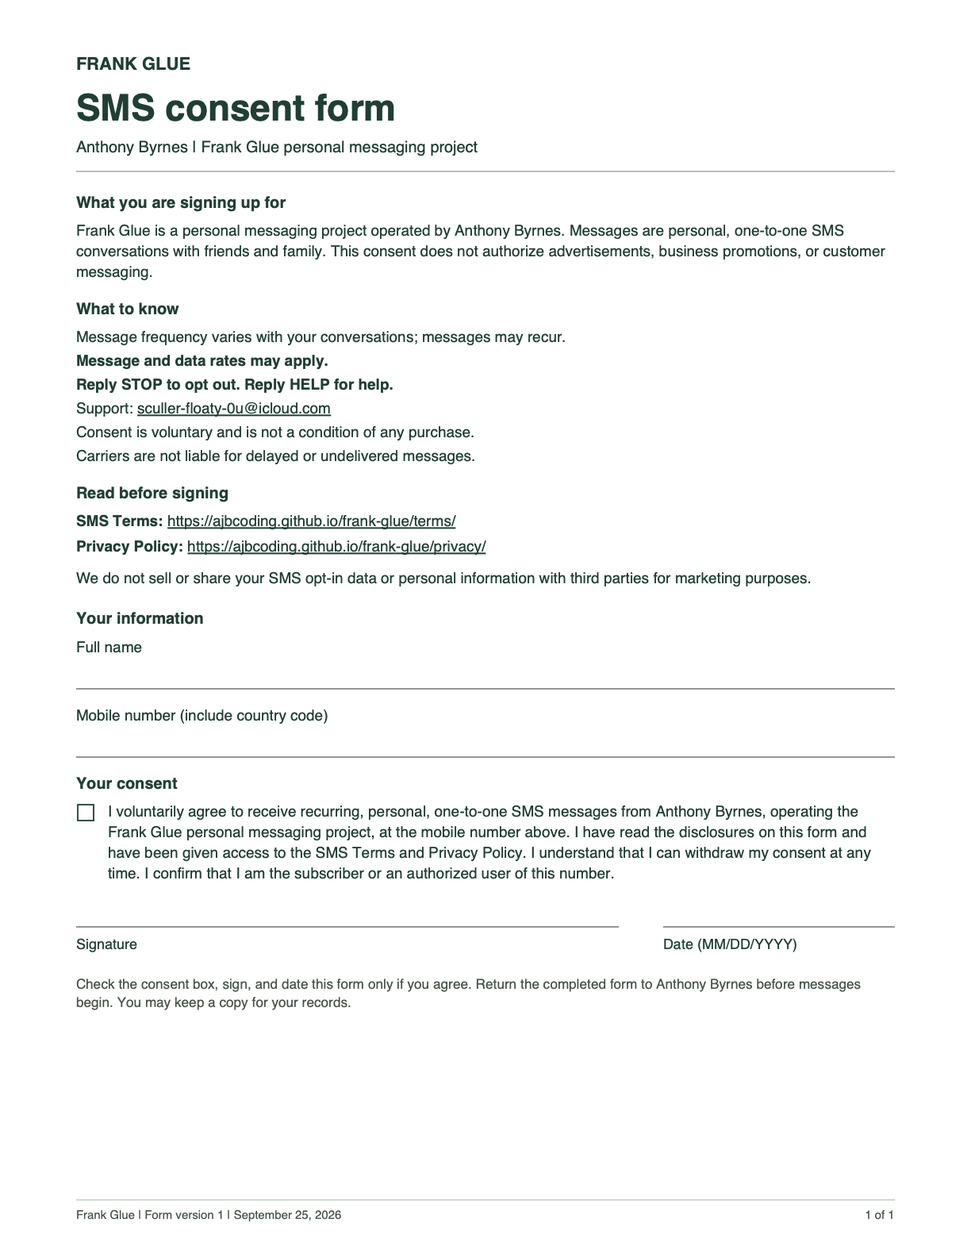
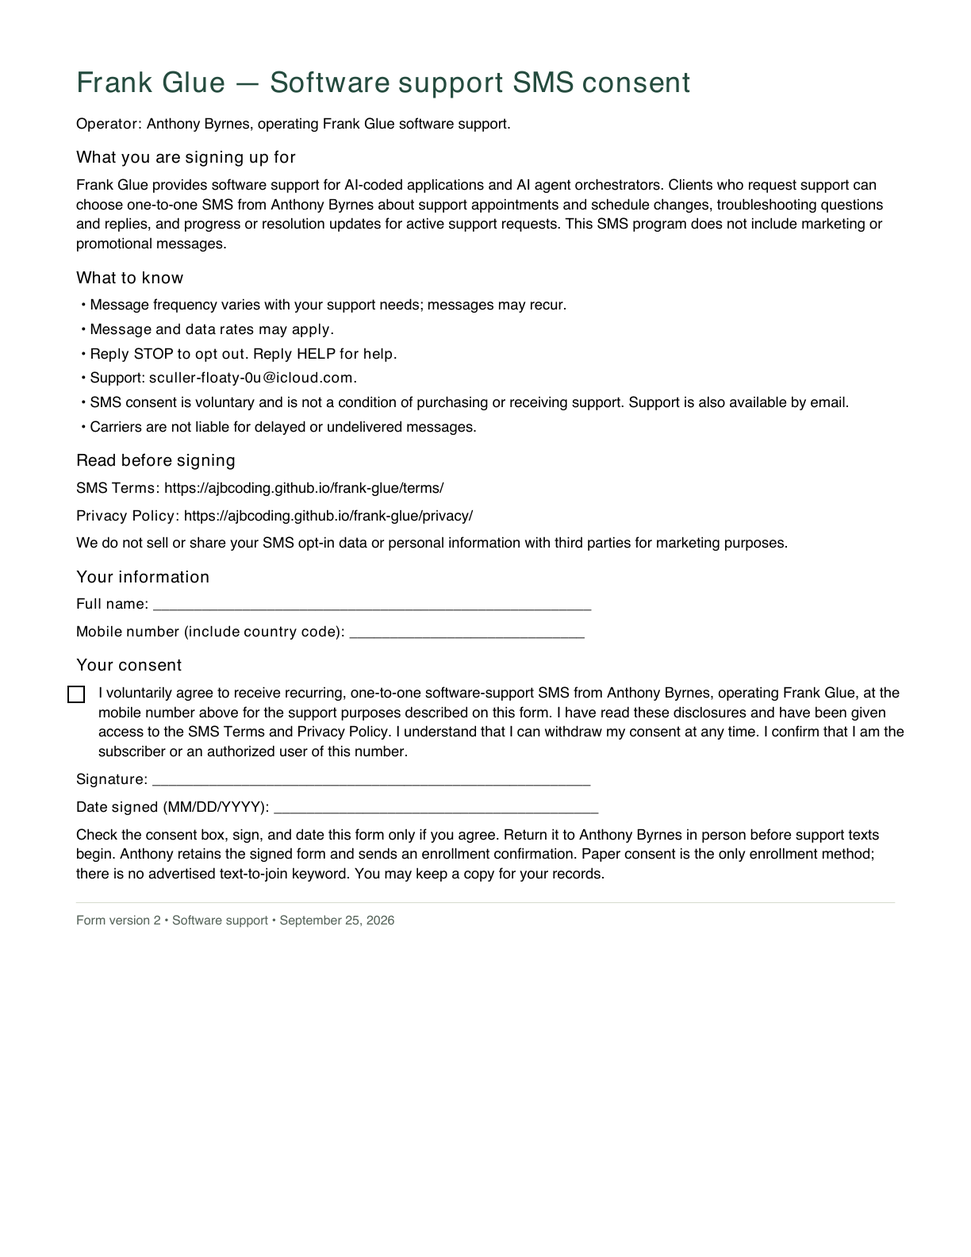
Describe Frank Glue software support services and SMS consent

diff --git a/privacy/index.html b/privacy/index.html
@@ -18,18 +18,18 @@
   <main id="main" class="wrap policy-layout">
     <aside class="policy-nav" aria-label="On this page"><p class="eyebrow">On this page</p><a href="#about">About this policy</a><a href="#information">Information we handle</a><a href="#use">How we use it</a><a href="#sharing">Providers and sharing</a><a href="#retention">Retention and security</a><a href="#choices">Your choices</a><a href="#contact">Contact</a></aside>
     <article class="policy">
-      <header class="policy-heading"><p class="eyebrow">Frank Glue · Your information</p><h1>Privacy Policy</h1><p class="effective">Effective September 25, 2026</p><p class="lede">Personal conversations deserve clear expectations about personal information.</p></header>
-      <section id="about"><h2>1. About this policy</h2><p>Anthony Byrnes operates Frank Glue, a personal messaging project for voluntary, one-to-one SMS conversations with friends and family. This policy covers the Frank Glue messaging program and this website. For privacy questions, contact <a href="mailto:sculler-floaty-0u@icloud.com">sculler-floaty-0u@icloud.com</a>.</p></section>
-      <section id="information"><h2>2. Information we handle</h2><p>We process the mobile number you provide, messages and any attachments you send, and information you choose to include, such as your name. Messaging providers also process conversation identifiers, message times, and delivery information.</p><p>Our paper consent process records your name, mobile number, signature, and signing date. We retain the signed form as proof of your permission to receive texts and keep records of your messaging preferences, including opt-out requests. If you contact us by email, we receive your email address and the information in that correspondence.</p><p>This website has no online signup form, advertising trackers, or analytics scripts added by Frank Glue. Our hosting provider, GitHub Pages, may process technical information such as your IP address to serve and secure the site. See the <a href="https://docs.github.com/en/site-policy/privacy-policies/github-general-privacy-statement">GitHub Privacy Statement</a> for its practices.</p></section>
-      <section id="use"><h2>3. How we use information</h2><p>We use information to deliver and respond to personal messages you have agreed to receive, provide assistance, resolve delivery problems, protect the service, and respect your messaging choices. Consent and opt-out records help us document permission and prevent unwanted messages.</p><p>Frank Glue does not use this program to send advertisements or bulk marketing messages.</p></section>
+      <header class="policy-heading"><p class="eyebrow">Frank Glue · Your information</p><h1>Privacy Policy</h1><p class="effective">Effective September 25, 2026 · Software support program</p><p class="lede">Clear expectations for your support information and messaging choices.</p></header>
+      <section id="about"><h2>1. About this policy</h2><p>Anthony Byrnes operates Frank Glue, a software support service for AI-coded applications and AI agent orchestrators. This policy covers this website, support correspondence, and optional one-to-one SMS about support appointments, troubleshooting, and progress or resolution updates for active support requests. For privacy questions, contact <a href="mailto:sculler-floaty-0u@icloud.com">sculler-floaty-0u@icloud.com</a>.</p></section>
+      <section id="information"><h2>2. Information we handle</h2><p>We process the contact details you provide, such as your name, email address, and mobile number; your support request and appointment details; and messages, attachments, or troubleshooting information you choose to share. Messaging providers also process conversation identifiers, message times, and delivery information.</p><p>Our paper SMS consent process records your name, mobile number, signature, and signing date. We retain the signed form as proof of your permission to receive support texts and keep records of your messaging preferences, including opt-out requests. If you contact us by email, we receive your email address and the information in that correspondence.</p><p>This website has no online signup form, advertising trackers, or analytics scripts added by Frank Glue. Our hosting provider, GitHub Pages, may process technical information such as your IP address to serve and secure the site. See the <a href="https://docs.github.com/en/site-policy/privacy-policies/github-general-privacy-statement">GitHub Privacy Statement</a> for its practices.</p></section>
+      <section id="use"><h2>3. How we use information</h2><p>We use information to assess and respond to your support request, schedule support sessions, investigate application or orchestration issues, and communicate progress and resolutions. With your SMS consent, we send support texts for those purposes. We also use information to resolve delivery problems, protect the service, and respect your messaging choices. Consent and opt-out records help us document permission and prevent unwanted messages.</p><p>Frank Glue does not use this SMS program to send marketing or promotional messages.</p></section>
       <section id="sharing"><h2>4. Service providers and sharing</h2><div class="callout"><h3>Your mobile information stays out of marketing lists.</h3><p>We never sell or rent your mobile information or SMS consent. We do not disclose phone numbers, mobile information, or opt-in and consent records to third parties, affiliates, or lead generators for their marketing or promotional activities.</p></div><p>Twilio and telecommunications carriers process phone numbers, message content, and delivery information to provide messaging. Our email and website providers process information needed to deliver correspondence and this website. These providers receive information as needed to operate those services; this does not authorize them to use your SMS consent for their own marketing.</p><p>We may disclose information if required by law, limited to that required purpose. Receiving Frank Glue messages does not give any other sender permission to contact you. Read more about <a href="https://www.twilio.com/en-us/legal/privacy">Twilio’s privacy practices</a>.</p></section>
-      <section id="retention"><h2>5. Retention and security</h2><p>We retain information while needed for your conversations, service operation, and applicable recordkeeping obligations. Consent and opt-out records may be retained to document your choices and honor requests not to receive messages. Provider systems and backups may retain information according to their own processes. Opting out does not automatically delete earlier messages.</p><p>We use account authentication and restrict access to our messaging accounts. SMS is not end-to-end encrypted; messaging providers and carriers process its content. Please avoid sending passwords or other sensitive information by text.</p></section>
-      <section id="choices"><h2>6. Your choices</h2><p>Participation is voluntary. You give explicit permission by completing, signing, and dating a paper form provided and collected in person by Anthony Byrnes before personal, one-to-one texts begin. You receive an enrollment confirmation after consenting and before personal conversations. Paper consent is the only enrollment method; there is no advertised text-to-join keyword. Message frequency varies with your conversations. Message and data rates may apply.</p><p><strong>Reply STOP to stop messages. Reply HELP for assistance.</strong> You may also contact <a href="mailto:sculler-floaty-0u@icloud.com">sculler-floaty-0u@icloud.com</a>.</p><p>You can ask us to access, correct, or delete information we hold about you by emailing that address. We may need to verify your request. Some records may need to be retained to meet applicable obligations or honor an opt-out; we will explain relevant limitations when responding.</p></section>
+      <section id="retention"><h2>5. Retention and security</h2><p>We retain information while needed for your support requests, service operation, and applicable recordkeeping obligations. Consent and opt-out records may be retained to document your choices and honor requests not to receive messages. Provider systems and backups may retain information according to their own processes. Opting out does not automatically delete earlier messages.</p><p>We use account authentication and restrict access to our messaging accounts. SMS is not end-to-end encrypted; messaging providers and carriers process its content. Please avoid sending passwords, API keys, or sensitive client data by text.</p></section>
+      <section id="choices"><h2>6. Your choices</h2><p>SMS participation is voluntary and is not a condition of purchasing or receiving support. You give explicit permission by checking the initially unchecked SMS consent box and completing, signing, and dating a paper form provided and collected in person by Anthony Byrnes. You receive an enrollment confirmation after consenting and before support texts begin. Paper consent is the only enrollment method; there is no advertised text-to-join keyword. Message frequency varies with your support needs; messages may recur. Message and data rates may apply.</p><p>You can request support by email without enrolling in SMS. Visiting the website or emailing a support request does not subscribe you to texts.</p><p><strong>Reply STOP to stop messages. Reply HELP for assistance.</strong> You may also contact <a href="mailto:sculler-floaty-0u@icloud.com">sculler-floaty-0u@icloud.com</a>.</p><p>You can ask us to access, correct, or delete information we hold about you by emailing that address. We may need to verify your request. Some records may need to be retained to meet applicable obligations or honor an opt-out; we will explain relevant limitations when responding.</p></section>
       <section id="contact"><h2>7. Updates and contact</h2><p>Updates to this policy will appear on this page with a revised effective date. For privacy questions, email <a href="mailto:sculler-floaty-0u@icloud.com">sculler-floaty-0u@icloud.com</a>. Read our <a href="../terms/">SMS Terms and Conditions</a> for messaging details.</p></section>
     </article>
   </main>
   <footer class="site-footer wrap">
-    <div><a class="footer-brand" href="../">Frank Glue</a><p>Personal messages. With permission.</p><a href="mailto:sculler-floaty-0u@icloud.com">sculler-floaty-0u@icloud.com</a></div>
+    <div><a class="footer-brand" href="../">Frank Glue</a><p>Software support by Anthony Byrnes.</p><a href="mailto:sculler-floaty-0u@icloud.com">sculler-floaty-0u@icloud.com</a></div>
     <nav aria-label="Footer navigation"><a href="../privacy/">Privacy Policy</a><a href="../terms/">SMS Terms</a></nav>
     <p class="copyright">© 2026 Frank Glue</p>
   </footer>

diff --git a/index.html b/index.html
@@ -3,9 +3,9 @@
 <head>
   <meta charset="utf-8">
   <meta name="viewport" content="width=device-width, initial-scale=1">
-  <meta name="description" content="Personal one-to-one SMS conversations, with your permission. Read how Frank Glue handles your information and messaging choices.">
+  <meta name="description" content="Frank Glue provides software support for AI-coded applications and AI agent orchestrators. Work with Anthony Byrnes on troubleshooting, integrations, and support follow-up.">
   <meta name="theme-color" content="#244b3e">
-  <title>Frank Glue — Personal SMS conversations</title>
+  <title>Frank Glue — Support for AI-coded applications</title>
   <link rel="stylesheet" href="./styles.css">
 </head>
 <body>
@@ -18,41 +18,43 @@
   <main id="main">
     <section class="hero wrap" aria-labelledby="intro">
       <div class="hero-copy">
-        <p class="eyebrow"><span class="status-dot" aria-hidden="true"></span> Personal SMS conversations</p>
-        <h1 id="intro">One to one.<br><em>With your say.</em></h1>
-        <p class="lede">Frank Glue is Anthony Byrnes’s personal messaging project for staying in touch with friends and family through individual text conversations. It starts with your permission.</p>
-        <a class="button" href="#how-it-works">How it works <span aria-hidden="true">↗</span></a>
+        <p class="eyebrow"><span class="status-dot" aria-hidden="true"></span> AI application support</p>
+        <h1 id="intro">Support for<br><em>what you’re building.</em></h1>
+        <p class="lede">Frank Glue is Anthony Byrnes’s software support service for AI-coded applications and AI agent orchestrators. Get help troubleshooting your app, connecting tools, and working through the next fix.</p>
+        <a class="button" href="mailto:sculler-floaty-0u@icloud.com">Request software support <span aria-hidden="true">↗</span></a>
+        <p><a class="text-link" href="#how-it-works">How optional support texts work</a></p>
       </div>
       <aside class="agreement" aria-labelledby="agreement-title">
-        <span class="card-label">Our starting point</span>
-        <h2 id="agreement-title">A clear agreement.</h2>
+        <span class="card-label">Work directly with Anthony</span>
+        <h2 id="agreement-title">Help with the next step.</h2>
         <ol class="agreement-list">
-          <li><span class="step">01</span><div><h3>Permission first</h3><p>You give permission on a signed, dated paper form before any texts begin.</p></div></li>
-          <li><span class="step">02</span><div><h3>A personal conversation</h3><p>Individual messages. No advertising, promotional campaigns, or bulk marketing.</p></div></li>
-          <li><span class="step">03</span><div><h3>Your choice, always</h3><p>You can stop messages at any time by replying <strong>STOP</strong>.</p></div></li>
+          <li><span class="step">01</span><div><h3>Application troubleshooting</h3><p>Investigate errors and unexpected behavior in applications built with AI coding tools.</p></div></li>
+          <li><span class="step">02</span><div><h3>Orchestrators and integrations</h3><p>Work through agent workflows, tool connections, and handoffs between application components.</p></div></li>
+          <li><span class="step">03</span><div><h3>Support follow-up</h3><p>Coordinate support sessions, discuss troubleshooting steps, and track updates on your request.</p></div></li>
         </ol>
-        <p class="card-foot">Simple conversations. Clear expectations.</p>
+        <p class="card-foot">Email your project outline and the issue you want help with. We’ll agree on the support scope and next steps.</p>
       </aside>
     </section>
     <section id="how-it-works" class="details-band">
       <div class="wrap details-grid">
-        <div><p class="eyebrow">Before the first text</p><h2>Know what you’re<br>agreeing to.</h2></div>
+        <div><p class="eyebrow">Optional SMS support</p><h2>Updates about<br>your request.</h2></div>
         <div class="details-copy">
-          <p>Anthony Byrnes provides and collects the paper consent form in person. Before you agree, the form explains Frank Glue’s personal messaging program, message frequency and rates, STOP and HELP instructions, and our <a href="privacy/">Privacy Policy</a> and <a href="terms/">SMS Terms</a>. If you choose to join, enter your mobile number, check the consent box, sign, and date the form.</p>
-          <p>Anthony retains the signed form as proof of your permission. You then receive an enrollment confirmation before personal conversations begin. Paper consent is the only way to join; there is no advertised text-to-join keyword.</p>
+          <p>Clients who request help with AI-coded applications or AI agent orchestrators can choose one-to-one support texts from Anthony Byrnes through Frank Glue. Messages cover support appointments and schedule changes, troubleshooting questions, and progress or resolution updates about an active support request. This SMS program does not include marketing or promotional messages.</p>
+          <p>Anthony provides and collects the paper SMS consent form in person. It explains the support messaging program, frequency and rates, STOP and HELP instructions, and our <a href="privacy/">Privacy Policy</a> and <a href="terms/">SMS Terms</a>. To enroll, enter your mobile number, check the initially unchecked consent box, sign and date the form, and return it to Anthony.</p>
+          <p>Anthony retains the signed form as proof of permission and sends an enrollment confirmation before support texts begin. Paper consent is the only enrollment method; there is no advertised text-to-join keyword.</p>
           <p><a href="consent/frank-glue-sms-consent.pdf">Download the blank consent form (PDF)</a> or <a href="consent/frank-glue-sms-consent.png">view the blank form (image)</a>.</p>
-          <p>Message frequency varies with the conversation. Message and data rates may apply. Consent is voluntary, and visiting this website does not sign you up.</p>
+          <p>Message frequency varies with your support needs; messages may recur. Message and data rates may apply. SMS consent is voluntary and is not a condition of purchasing or receiving support. You can arrange support by email. Visiting this website or emailing a request does not enroll you in SMS.</p>
           <p><strong>Reply STOP to unsubscribe. Reply HELP for assistance.</strong> You can also reach us at <a href="mailto:sculler-floaty-0u@icloud.com">sculler-floaty-0u@icloud.com</a>.</p>
         </div>
       </div>
     </section>
     <section class="wrap privacy-note" aria-labelledby="privacy-promise">
       <div class="privacy-icon" aria-hidden="true">FG</div>
-      <div><p class="eyebrow">Your information</p><h2 id="privacy-promise">A conversation isn’t a marketing list.</h2><p>We never sell or rent your mobile information or SMS consent. We do not disclose it to third parties or affiliates for their marketing or promotions.</p><a class="text-link" href="privacy/">Read the privacy policy <span aria-hidden="true">↗</span></a></div>
+      <div><p class="eyebrow">Your information</p><h2 id="privacy-promise">Support with clear boundaries.</h2><p>We never sell or rent your mobile information or SMS consent. We do not disclose it to third parties or affiliates for their marketing or promotions. Please keep passwords, API keys, and sensitive client data out of support texts.</p><a class="text-link" href="privacy/">Read the privacy policy <span aria-hidden="true">↗</span></a></div>
     </section>
   </main>
   <footer class="site-footer wrap">
-    <div><a class="footer-brand" href="./">Frank Glue</a><p>Personal messages. With permission.</p><a href="mailto:sculler-floaty-0u@icloud.com">sculler-floaty-0u@icloud.com</a></div>
+    <div><a class="footer-brand" href="./">Frank Glue</a><p>Software support by Anthony Byrnes.</p><a href="mailto:sculler-floaty-0u@icloud.com">sculler-floaty-0u@icloud.com</a></div>
     <nav aria-label="Footer navigation"><a href="./privacy/">Privacy Policy</a><a href="./terms/">SMS Terms</a></nav>
     <p class="copyright">© 2026 Frank Glue</p>
   </footer>

diff --git a/terms/index.html b/terms/index.html
@@ -3,7 +3,7 @@
 <head>
   <meta charset="utf-8">
   <meta name="viewport" content="width=device-width, initial-scale=1">
-  <meta name="description" content="Frank Glue SMS program terms, written consent, message frequency, rates, opt-out instructions, and support.">
+  <meta name="description" content="Terms for optional Frank Glue software-support SMS: paper consent, message frequency, rates, opt-out instructions, and help.">
   <meta name="theme-color" content="#244b3e">
   <title>SMS Terms and Conditions — Frank Glue</title>
   <link rel="stylesheet" href="../styles.css">
@@ -18,17 +18,17 @@
   <main id="main" class="wrap policy-layout">
     <aside class="policy-nav" aria-label="On this page"><p class="eyebrow">On this page</p><a href="#program">The program</a><a href="#consent">Your agreement</a><a href="#frequency">Frequency and charges</a><a href="#stop">Stopping messages</a><a href="#help">Getting help</a><a href="#delivery">Delivery and privacy</a></aside>
     <article class="policy">
-      <header class="policy-heading"><p class="eyebrow">Frank Glue · Messaging details</p><h1>SMS Terms<br>and Conditions</h1><p class="effective">Effective September 25, 2026</p><p class="lede">What to expect before, during, and after a conversation.</p></header>
-      <section id="program"><h2>1. The program</h2><p>Anthony Byrnes operates Frank Glue, a personal messaging project for individual, one-to-one SMS conversations with friends and family who have agreed to receive them. Messages relate to your personal conversation. This program does not send advertisements, promotional campaigns, or bulk marketing.</p></section>
-      <section id="consent"><h2>2. Your agreement</h2><p>Before sending texts, Anthony Byrnes provides and collects a paper consent form in person. You enter your mobile number, check the consent box, and sign and date the form if you agree to receive messages. Before you agree, we provide the Frank Glue program name, the purpose of the conversation, message frequency and rate disclosures, STOP and HELP instructions, and links to these terms and our <a href="../privacy/">Privacy Policy</a>.</p><p>You confirm that you want personal, one-to-one SMS conversations from Frank Glue at the number you provide. Your agreement covers that purpose only. Participation is voluntary and is not a condition of any purchase. Reading this website does not subscribe you. Anthony retains your signed, dated form as proof of permission. You receive an enrollment confirmation before personal messages begin. Paper forms are the only way to join; there is no advertised text-to-join keyword. You can <a href="../consent/frank-glue-sms-consent.pdf">read the blank paper form (PDF)</a> before deciding.</p></section>
-      <section id="frequency"><h2>3. Message frequency and charges</h2><p>Message frequency varies with your conversations; there is no fixed messaging schedule. Message and data rates may apply under your mobile carrier plan. Contact your carrier for information about your plan.</p></section>
+      <header class="policy-heading"><p class="eyebrow">Frank Glue · Messaging details</p><h1>SMS Terms<br>and Conditions</h1><p class="effective">Effective September 25, 2026 · Software support program</p><p class="lede">Optional texts to keep your software support request moving.</p></header>
+      <section id="program"><h2>1. The program</h2><p>Anthony Byrnes operates Frank Glue, a software support service for AI-coded applications and AI agent orchestrators. Clients who request support and opt in can receive one-to-one SMS about support appointments and schedule changes, troubleshooting questions and replies, and progress or resolution updates for active support requests. This SMS program does not send marketing or promotional messages.</p></section>
+      <section id="consent"><h2>2. Your agreement</h2><p>Before sending texts, Anthony Byrnes provides and collects a paper SMS consent form in person. You enter your mobile number, check the initially unchecked consent box, and sign and date the form if you agree to receive support messages. Before you agree, the form provides the Frank Glue program name, the support messaging purpose, frequency and rate disclosures, STOP and HELP instructions, and links to these terms and our <a href="../privacy/">Privacy Policy</a>.</p><p>You confirm that you want recurring, one-to-one software-support SMS from Frank Glue at the number you provide. Your agreement covers that purpose only. SMS participation is voluntary and is not a condition of purchasing or receiving support. You can arrange support by email without enrolling in texts. Reading this website or emailing a request does not subscribe you. Anthony retains your signed, dated form as proof of permission and sends an enrollment confirmation before support texts begin. Paper forms are the only enrollment method; there is no advertised text-to-join keyword. You can <a href="../consent/frank-glue-sms-consent.pdf">read the blank paper form (PDF)</a> before deciding.</p></section>
+      <section id="frequency"><h2>3. Message frequency and charges</h2><p>Message frequency varies with your support needs; messages may recur and there is no fixed messaging schedule. Message and data rates may apply under your mobile carrier plan. Contact your carrier for information about your plan.</p></section>
       <section id="stop"><h2>4. Stopping messages</h2><div class="callout"><p><strong>Reply STOP to unsubscribe at any time.</strong></p><p>You may receive a final message confirming your opt-out. We will not resume messaging unless you give new, valid permission.</p></div><p>You can also request that messages stop by emailing <a href="mailto:sculler-floaty-0u@icloud.com">sculler-floaty-0u@icloud.com</a>. If you change or give up your phone number, please let us know so we can update our records.</p></section>
       <section id="help"><h2>5. Getting help</h2><p><strong>Reply HELP for assistance</strong>, or email <a href="mailto:sculler-floaty-0u@icloud.com">sculler-floaty-0u@icloud.com</a> with a question about the program or your messaging choices.</p></section>
       <section id="delivery"><h2>6. Delivery, privacy, and updates</h2><p>Carriers are not liable for delayed or undelivered messages. Delivery depends on carrier networks and other factors. Frank Glue is not an emergency service.</p><p>Our <a href="../privacy/">Privacy Policy</a> explains how we handle your information, including our commitment not to share mobile information or consent with third parties for their marketing.</p><p>Updates to these terms will be posted here with a revised effective date. Changes to these terms do not themselves expand the messages you agreed to receive.</p></section>
     </article>
   </main>
   <footer class="site-footer wrap">
-    <div><a class="footer-brand" href="../">Frank Glue</a><p>Personal messages. With permission.</p><a href="mailto:sculler-floaty-0u@icloud.com">sculler-floaty-0u@icloud.com</a></div>
+    <div><a class="footer-brand" href="../">Frank Glue</a><p>Software support by Anthony Byrnes.</p><a href="mailto:sculler-floaty-0u@icloud.com">sculler-floaty-0u@icloud.com</a></div>
     <nav aria-label="Footer navigation"><a href="../privacy/">Privacy Policy</a><a href="../terms/">SMS Terms</a></nav>
     <p class="copyright">© 2026 Frank Glue</p>
   </footer>
